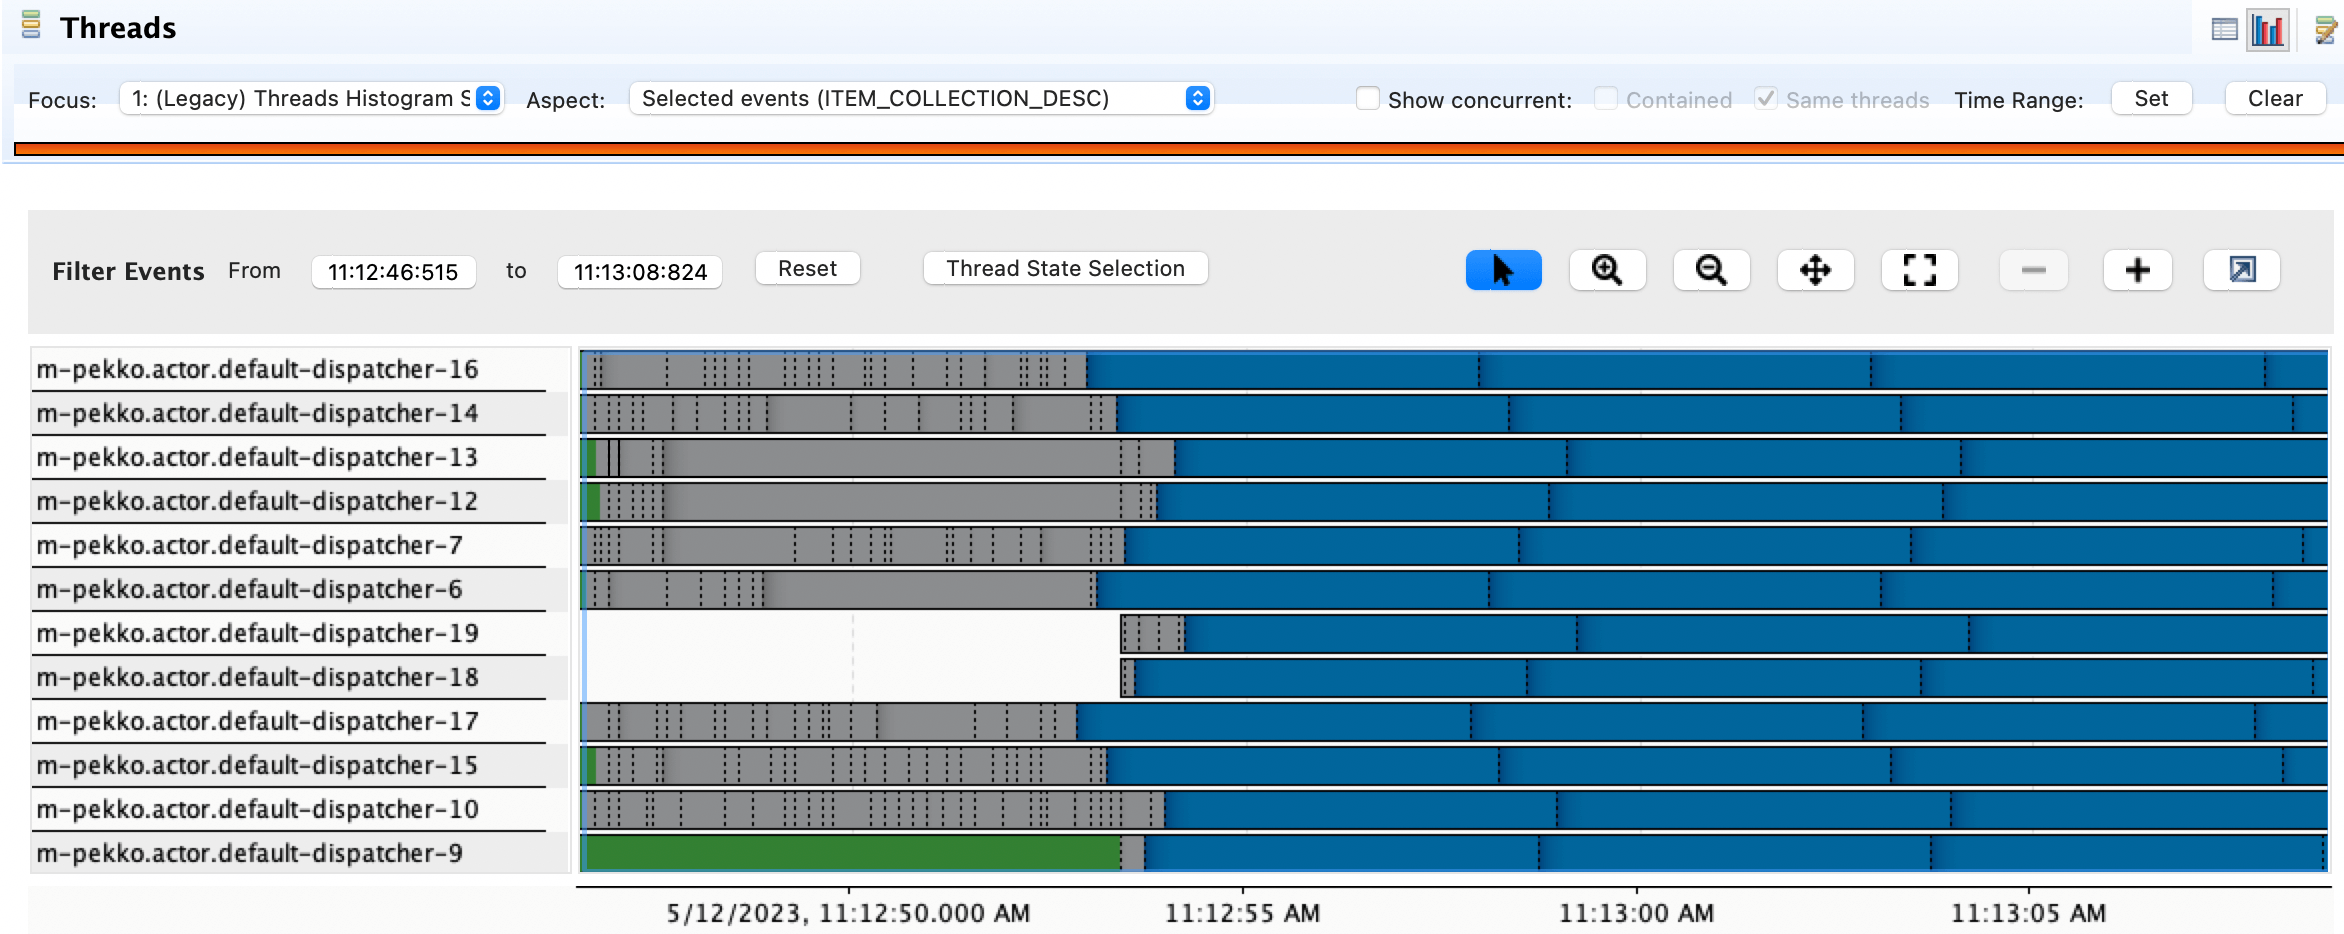
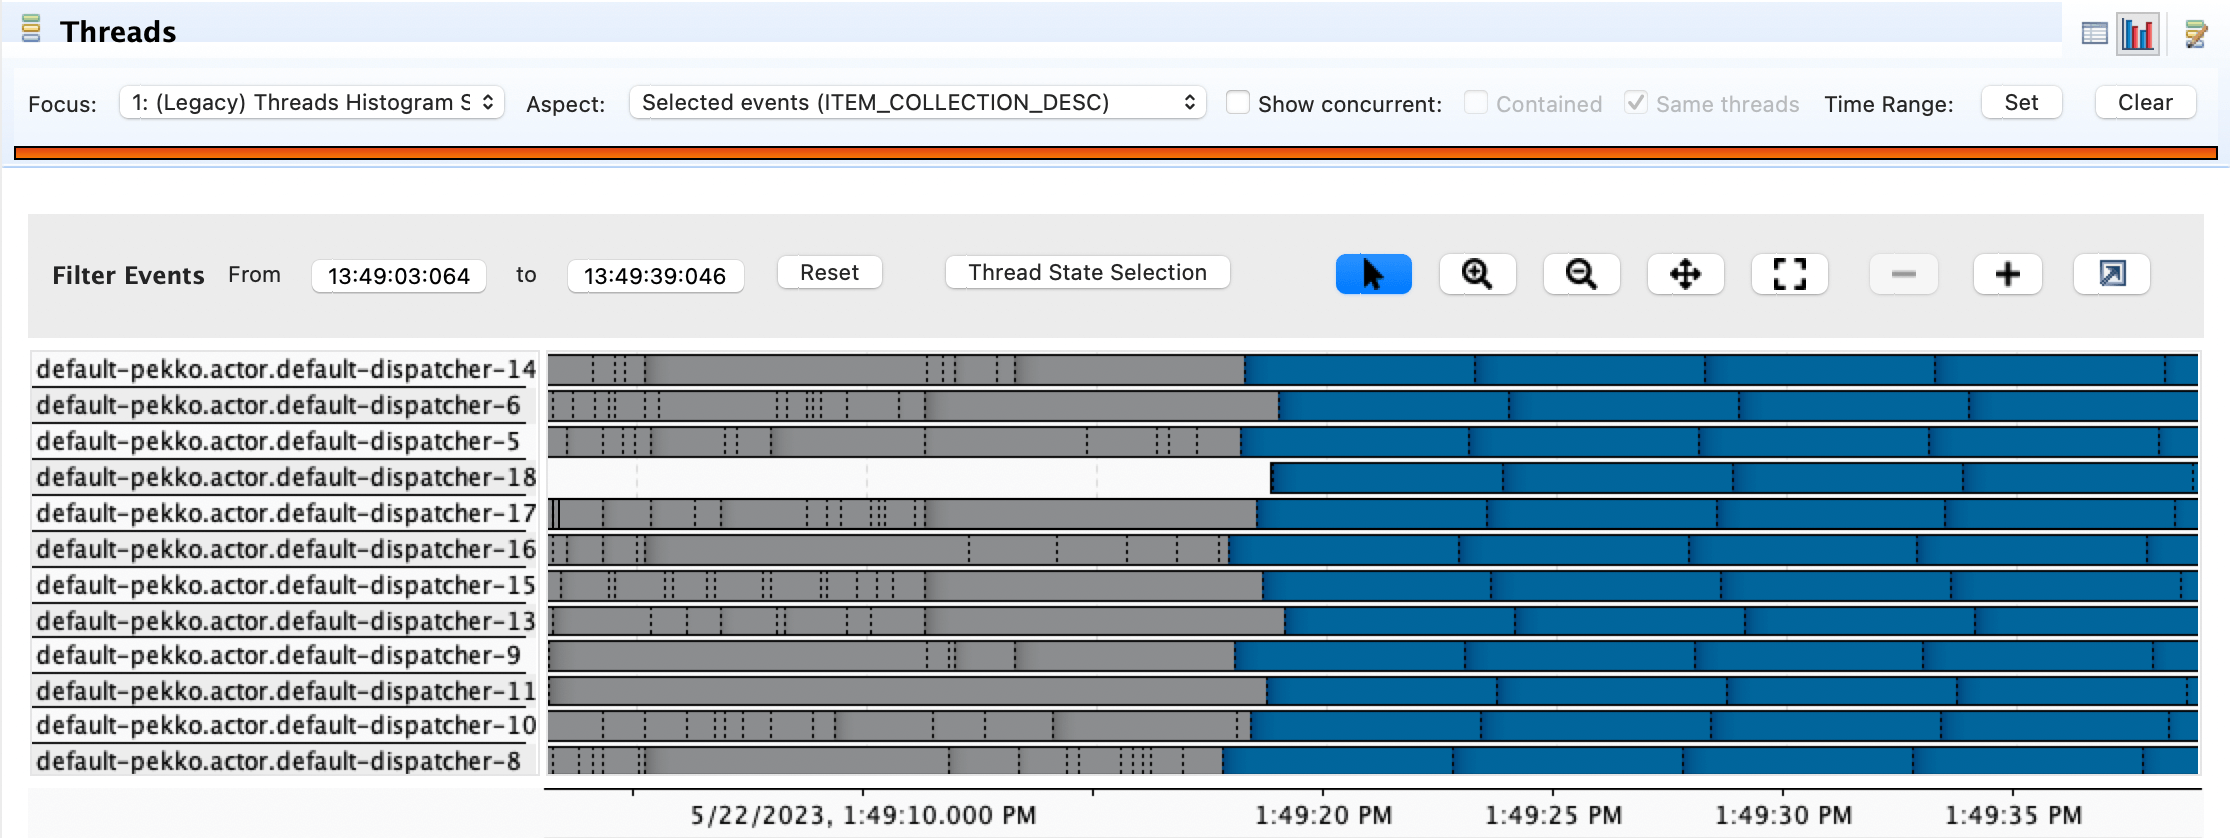
Revert blocking ex changes and regenerate JFRs with classic ActorSystem.
Originally in trying to address issue #99 I used a typed ActorSystem.
This led me to the wrong belief that the code examples needed changes.
I've regenerated the doc images with the classic actor system.
And this means the dispatchers can come with the system name "default".

diff --git a/docs/src/test/java/docs/http/javadsl/server/BlockingInHttpExamples.java b/docs/src/test/java/docs/http/javadsl/server/BlockingInHttpExamples.java
@@ -14,7 +14,6 @@
 package docs.http.javadsl.server;
 
 import org.apache.pekko.actor.ActorSystem;
-import org.apache.pekko.actor.DispatcherSelector;
 import org.apache.pekko.dispatch.MessageDispatcher;
 import org.apache.pekko.http.javadsl.model.HttpResponse;
 import org.apache.pekko.http.javadsl.server.Route;
@@ -61,7 +60,7 @@ public class BlockingInHttpExamples extends JUnitRouteTest {
         //#blocking-example-in-dedicated-dispatcher
         // GOOD (the blocking is now isolated onto a dedicated dispatcher):
         final Route routes = post(() -> {
-            final MessageDispatcher dispatcher = system.dispatchers().lookup(DispatcherSelector.fromConfig("my-blocking-dispatcher"));
+            final MessageDispatcher dispatcher = system.dispatchers().lookup("my-blocking-dispatcher");
             return completeWithFuture(CompletableFuture.supplyAsync(() -> {
                         try {
                             Thread.sleep(5000L);

diff --git a/docs/src/main/paradox/handling-blocking-operations-in-pekko-http-routes.md b/docs/src/main/paradox/handling-blocking-operations-in-pekko-http-routes.md
@@ -65,8 +65,8 @@ provided dispatcher would be used. Both these dispatchers are ForkJoin pools by 
 not best suited for blocking operations.
 @@@
 For example, the above screenshot shows an Apache Pekko FJP dispatchers threads,
-named "`m-pekko.actor.default-dispatcher-6,7`" going into the blocking state, after having been idle. 
-It can be observed that the number of new threads increases, "`default-akka.actor.default-dispatcher 18,19`" 
+named "`default-pekko.actor.default-dispatcher-16,15`" going into the blocking state, after having been idle. 
+It can be observed that the number of new threads increases, "`default-pekko.actor.default-dispatcher-18`" 
 however they go to sleep state immediately, thus wasting the resources.
 @java[The same happens to the global @javadoc[ForkJoinPool](java.util.concurrent.ForkJoinPool) when using Java Futures.]
 
